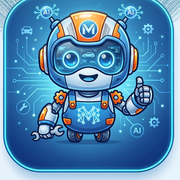
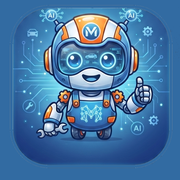
アイコンをアイコン3.pngベースに刷新(外周の白フチ・グレー背景を除去しフルブリード化/マスク可は深青背景に安全領域配置)

diff --git a/sw.js b/sw.js
@@ -1,6 +1,6 @@
 "use strict";
 /* Service Worker — オフライン動作(アプリシェル + 車両DBキャッシュ) */
-const CACHE = "shaken-scan-v341";
+const CACHE = "shaken-scan-v342";
 const PRECACHE = [
   "./",
   "./index.html",
